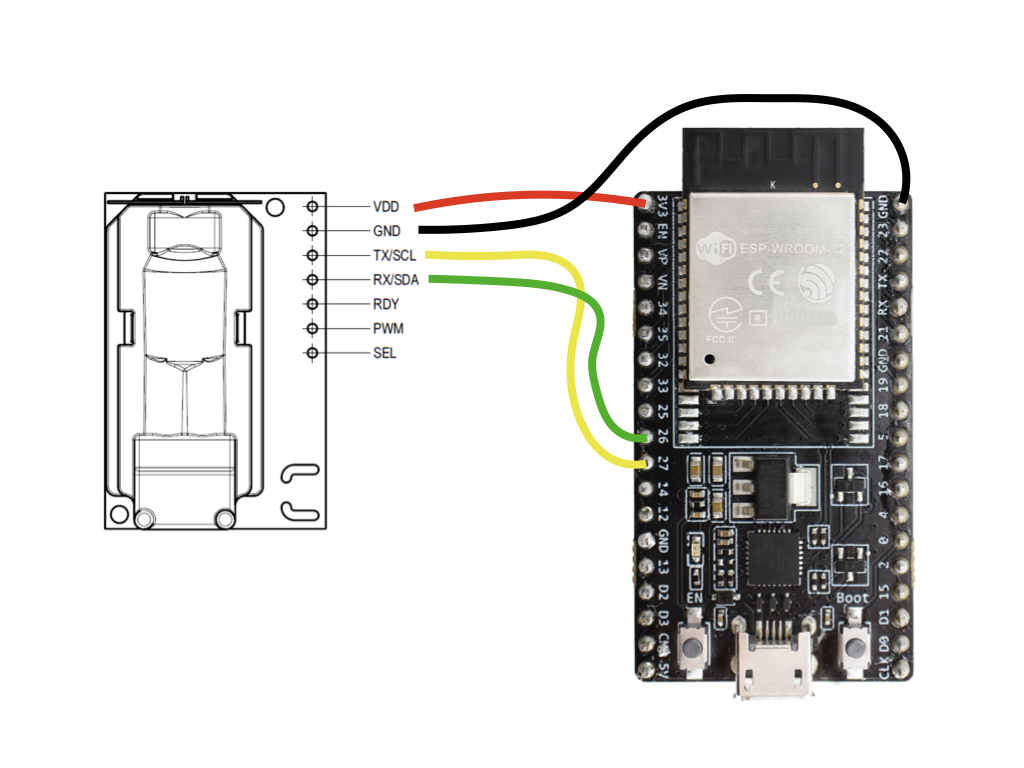
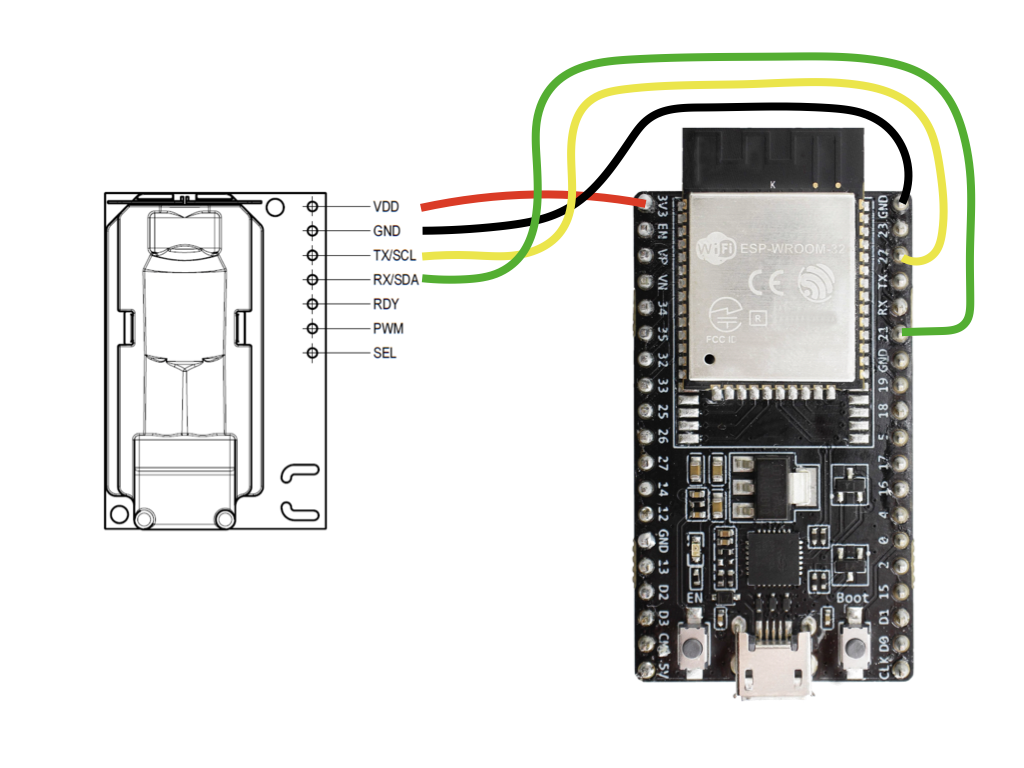
Fix tutorial wiring and description

Changed region(s): [[0.5312, 0.0625, 0.9688, 0.4375], [0.4062, 0.125, 0.625, 0.625]]

diff --git a/documents/SCD4x_BLE_Gadget_Tutorial.md b/documents/SCD4x_BLE_Gadget_Tutorial.md
@@ -2,7 +2,9 @@
 
 ## Summary
 
-This tutorial enables you to setup a CO2-Monitor sending Temperature, Humidity and Carbon Dioxide (CO2) measurements via Bluetooth to nearby mobile phones. All steps necessary and links to the compatible app for the interaction with the created Gadget are provided here.
+This tutorial enables you to setup a CO2-Monitor sending Temperature, Humidity and Carbon Dioxide (CO2) measurements via
+Bluetooth to nearby mobile phones. All steps necessary and links to the compatible app for the interaction with the
+created Gadget are provided here.
 
 The tutorial is structured in 3 parts
 
@@ -14,16 +16,19 @@ The tutorial is structured in 3 parts
 
 To complete this tutorial, you'll need
 
-* [ESP32 DevKitC](https://www.espressif.com/en/products/devkits/esp32-devkitc) (available [here](https://www.digikey.com/en/products/detail/espressif-systems/ESP32-DEVKITC-32D/9356990))
+* [ESP32 DevKitC-32D](https://www.espressif.com/en/products/devkits/esp32-devkitc) (
+  available [here](https://www.digikey.com/en/products/detail/espressif-systems/ESP32-DEVKITC-32D/9356990))
 * [Sensirions SEK-SCD41](https://www.sensirion.com/my-scd-ek)
 * USB cable to connect the ESP32 DevKitC module to your computer
 
-Connect the SEK-SCD41 module to the ESP32 DevKitC as depicted below:
+Connect the SEK-SCD41 module to the ESP32 DevKitC as depicted below. Please note, that your developer kit may have a
+different pin layout. If you're using different pins or have a different layout, you might have to adjust the code
+accordingly.
 
 * **VDD** of the SEK-SCD41 to the **3.3V** of the ESP32
 * **GND** of the SEK-SCD41 to the **GND** of the ESP32
-* **SCL** of the SEK-SCD41 to the **GPIO 22** of the ESP32
-* **SDA** of the SEK-SCD41 to the **GPIO 21** of the ESP32
+* **SCL** of the SEK-SCD41 to the **IO22** of the ESP32
+* **SDA** of the SEK-SCD41 to the **IO21** of the ESP32
 
 <img src="images/SCD4x_hardware_setup.png" width="500">
 
@@ -35,11 +40,12 @@ The following instructions originate from [here](https://github.com/espressif/ar
 
 1. Install the current version of the [Arduino IDE](http://www.arduino.cc/en/main/software).
 2. Start the Arduino IDE and open the Preferences window.
-3. Enter the following link into the *Additional Board Manager URLs* field. You can add multiple URLs, separating them with commas.
-	* `https://raw.githubusercontent.com/espressif/arduino-esp32/gh-pages/package_esp32_index.json`
+3. Enter the following link into the *Additional Board Manager URLs* field. You can add multiple URLs, separating them
+   with commas.
+    * `https://raw.githubusercontent.com/espressif/arduino-esp32/gh-pages/package_esp32_index.json`
 4. Open the Boards Manager from `Tools > Board -> Board Manager` and install the *esp32* platform
 5. Select your ESP32 board from the `Tools > Board` menu after the successfull installation.
-	* E.g. `ESP32 Dev Module`
+    * E.g. `ESP32 Dev Module`
 
 ### Setup the requried libraries
 
@@ -47,7 +53,8 @@ We'll be installing one library. Click the link below and download the newest .z
 
 * The [Sensirion GadgetBle Arduino Library](https://github.com/Sensirion/Sensirion_GadgetBle_Arduino_Library/releases)
 
-For the downloaded .zip file: In the Arduino IDE, select `Sketch -> include Library -> Add .zip Library` and select the downloaded .zip file.
+For the downloaded .zip file: In the Arduino IDE, select `Sketch -> include Library -> Add .zip Library` and select the
+downloaded .zip file.
 
 <img src="images/Arduino-import-zip-lib.png" width="500">
 
@@ -66,20 +73,25 @@ Restart the Arduino IDE.
 
 ### Value plotting on your Computer
 
-To verify that everything is working fine, open the Serial Plotter, while your ESP32 ist still connected to your computer to see the sensor values measured by the SCD41 module:
+To verify that everything is working fine, open the Serial Plotter, while your ESP32 ist still connected to your
+computer to see the sensor values measured by the SCD41 module:
 
 1. Go to `Tools -> Serial Plotter`
 2. Make sure on the bottom left corner `115200 baud` is selected, as depicted in the image below
 
-You should see the measured values plotted in the opened window. Alternatively you can choose `Tools -> Serial Monitor` to see the values in text form.
+You should see the measured values plotted in the opened window. Alternatively you can choose `Tools -> Serial Monitor`
+to see the values in text form.
 
 ### Monitor your Temperature, Humidity and CO2 levels via Mobile App
 
-Download the **Sensirion MyAmbience** app to monitor your sensor signals, download history values and export and share the data with your friends.
+Download the **Sensirion MyAmbience** app to monitor your sensor signals, download history values and export and share
+the data with your friends.
 
 * [Download for Android](https://play.google.com/store/apps/details?id=com.sensirion.myam)
 * [Download for iOS](https://apps.apple.com/ch/app/id1529131572)
 
-Note that on Android devices the Location services need to be enabled and the corresponding permissions granted to the application. This is required to allow the app to continuously scan for nearby Bluetooth devices. This is a requirement of the Android OS for Bluetooth scanning. The app itself does not use your location.
+Note that on Android devices the Location services need to be enabled and the corresponding permissions granted to the
+application. This is required to allow the app to continuously scan for nearby Bluetooth devices. This is a requirement
+of the Android OS for Bluetooth scanning. The app itself does not use your location.
 
 <img src="images/SCD30_AppScreenshot.PNG" width="300">

diff --git a/documents/SCD30_Monitor_Tutorial.md b/documents/SCD30_Monitor_Tutorial.md
@@ -16,17 +16,21 @@ If you have a [LILYGO® TTGO T-Display ESP32](http://www.lilygo.cn/prod_view.asp
 
 To complete this tutorial, you'll need
 
-* [ESP32 DevKitC](https://www.espressif.com/en/products/devkits/esp32-devkitc) (available [here](https://www.digikey.com/en/products/detail/espressif-systems/ESP32-DEVKITC-32D/9356990))
+* [ESP32 DevKitC-32D](https://www.espressif.com/en/products/devkits/esp32-devkitc) (
+  available [here](https://www.digikey.com/en/products/detail/espressif-systems/ESP32-DEVKITC-32D/9356990))
 * [Sensirions SCD30 Sensor](https://www.sensirion.com/en/environmental-sensors/carbon-dioxide-sensors/carbon-dioxide-sensors-co2/) (available [here](https://www.digikey.com/en/products/detail/sensirion-ag/SCD30/8445334) or with [Grove Plug](https://www.digikey.com/en/products/detail/seeed-technology-co-ltd/101020634/10060357?s=N4IgTCBcDaIMoGEAiBmADCAugXyA) if you don't want to solder anything)
 * Cables for soldering the connection or a Grove-to-Jumper cable (available [here](https://www.digikey.com/en/products/detail/seeed-technology-co-ltd/110990028/5482559?s=N4IgTCBcDaIOYCcD2A3ApgAgC5IwKwFcBbABzQQwDM0iBDAGzRAF0BfIA))
 * USB cable to connect the ESP32 DevKitC module to your computer
 
-Connect the SCD30 sensor to the ESP32 DevKitC as depicted below:
+Connect the SCD30 sensor to the ESP32 DevKitC as depicted below. Please note, that your developer kit may have a
+different pin layout. If you're using different pins or have a different layout, you might have to adjust the code
+accordingly.
 
 * **VDD** of the SCD30 to the **3.3V** of the ESP32
 * **GND** of the SCD30 to the **GND** of the ESP32
-* **SDA** of the SCD30 to the **GPIO 26** of the ESP32
-* **SCL** of the SCD30 to the **GPIO 27** of the ESP32
+* **SCL** of the SCD30 to the **IO22** of the ESP32
+* **SDA** of the SCD30 to the **IO21** of the ESP32
+
 
 <img src="images/SCD30_hardware_setup.png" width="500">
 
@@ -94,6 +98,8 @@ Note that on Android devices the Location services need to be enabled and the co
 The LILYGO® TTGO T-Display ESP32 is an ESP32 DevKit with a small 1.14 inch display attached. This allows us to visualize the current CO2 concentration and level color in green, yellow or red, depending if the CO2 level is good, bad or very bad.
 
 <img src="images/TTGO-Gadget.png" width="600">
+
+Caution: This picture shows an alternative wiring. Use the instructions described in section *Hardware Setup*
 
 Follow all the instructions above and additionally do the following:
 

diff --git a/documents/SCD30_BLE_Gadget_with_RHT_Tutorial.md b/documents/SCD30_BLE_Gadget_with_RHT_Tutorial.md
@@ -14,17 +14,20 @@ The tutorial is structured in 3 parts
 
 To complete this tutorial, you'll need
 
-* [ESP32 DevKitC](https://www.espressif.com/en/products/devkits/esp32-devkitc) (available [here](https://www.digikey.com/en/products/detail/espressif-systems/ESP32-DEVKITC-32D/9356990))
+* [ESP32 DevKitC-32D](https://www.espressif.com/en/products/devkits/esp32-devkitc) (
+  available [here](https://www.digikey.com/en/products/detail/espressif-systems/ESP32-DEVKITC-32D/9356990))
 * [Sensirions SCD30 Sensor](https://www.sensirion.com/en/environmental-sensors/carbon-dioxide-sensors/carbon-dioxide-sensors-co2/) (available [here](https://www.digikey.com/en/products/detail/sensirion-ag/SCD30/8445334) or with [Grove Plug](https://www.digikey.com/en/products/detail/seeed-technology-co-ltd/101020634/10060357?s=N4IgTCBcDaIMoGEAiBmADCAugXyA) if you don't want to solder anything)
 * Cables for soldering the connection or a Grove-to-Jumper cable (available [here](https://www.digikey.com/en/products/detail/seeed-technology-co-ltd/110990028/5482559?s=N4IgTCBcDaIOYCcD2A3ApgAgC5IwKwFcBbABzQQwDM0iBDAGzRAF0BfIA))
 * USB cable to connect the ESP32 DevKitC module to your computer
 
-Connect the SCD30 sensor to the ESP32 DevKitC as depicted below:
+Connect the SCD30 sensor to the ESP32 DevKitC as depicted below. Please note, that your developer kit may have a
+different pin layout. If you're using different pins or have a different layout, you might have to adjust the code
+accordingly.
 
 * **VDD** of the SCD30 to the **3.3V** of the ESP32
 * **GND** of the SCD30 to the **GND** of the ESP32
-* **SDA** of the SCD30 to the **GPIO 26** of the ESP32
-* **SCL** of the SCD30 to the **GPIO 27** of the ESP32
+* **SCL** of the SCD30 to the **IO22** of the ESP32
+* **SDA** of the SCD30 to the **IO21** of the ESP32
 
 <img src="images/SCD30_hardware_setup.png" width="500">
 

diff --git a/documents/SFA30_BLE_Gadget_Tutorial.md b/documents/SFA30_BLE_Gadget_Tutorial.md
@@ -14,16 +14,19 @@ The tutorial is structured in 3 parts
 
 To complete this tutorial, you'll need
 
-* [ESP32 DevKitC](https://www.espressif.com/en/products/devkits/esp32-devkitc) (available [here](https://www.digikey.com/en/products/detail/espressif-systems/ESP32-DEVKITC-32D/9356990))
+* [ESP32 DevKitC-32D](https://www.espressif.com/en/products/devkits/esp32-devkitc) (
+  available [here](https://www.digikey.com/en/products/detail/espressif-systems/ESP32-DEVKITC-32D/9356990))
 * [Sensirions SEK-SFA30](https://www.sensirion.com/en/environmental-sensors/evaluation-kit-sek-sfa30/) (available [here](https://www.digikey.com/en/products/detail/sensirion-ag/SEK-SFA30/13577460?s=N4IgTCBcDaIMoDECCBmADCAugXyA)
 * USB cable to connect the ESP32 DevKitC module to your computer
 
-Connect the SEK-SFA30 module to the ESP32 DevKitC as depicted below:
+Connect the SEK-SFA30 module to the ESP32 DevKitC as depicted below. Please note, that your developer kit may have a
+different pin layout. If you're using different pins or have a different layout, you might have to adjust the code
+accordingly.
 
 * **VDD** of the SEK-SFA30 to the **3.3V** of the ESP32
 * **GND** of the SEK-SFA30 to the **GND** of the ESP32
-* **SCL** of the SEK-SFA30 to the **GPIO 22** of the ESP32
-* **SDA** of the SEK-SFA30 to the **GPIO 21** of the ESP32
+* **SCL** of the SEK-SFA30 to the **IO22** of the ESP32
+* **SDA** of the SEK-SFA30 to the **IO21** of the ESP32
 * **SEL** of the SEK-SFA30 to the **GND** of the ESP32  (choosing the I2C interface)
 
 <img src="images/SFA30_hardware_setup.png" width="500">

diff --git a/documents/SVM40_BLE_Gadget_Tutorial.md b/documents/SVM40_BLE_Gadget_Tutorial.md
@@ -14,16 +14,19 @@ The tutorial is structured in 3 parts
 
 To complete this tutorial, you'll need
 
-* [ESP32 DevKitC](https://www.espressif.com/en/products/devkits/esp32-devkitc) (available [here](https://www.digikey.com/en/products/detail/espressif-systems/ESP32-DEVKITC-32D/9356990))
+* [ESP32 DevKitC-32D](https://www.espressif.com/en/products/devkits/esp32-devkitc) (
+  available [here](https://www.digikey.com/en/products/detail/espressif-systems/ESP32-DEVKITC-32D/9356990))
 * [Sensirions SEK-SVM40](https://www.sensirion.com/en/environmental-sensors/evaluation-kit-sek-svm40/) (available [here](https://www.digikey.com/en/products/detail/sensirion-ag/SEK-SVM40/12820417?s=N4IgTCBcDaIMoDUCyAWADCAugXyA)
 * USB cable to connect the ESP32 DevKitC module to your computer
 
-Connect the SEK-SVM40 module to the ESP32 DevKitC as depicted below:
+Connect the SEK-SVM40 module to the ESP32 DevKitC as depicted below. Please note, that your developer kit may have a
+different pin layout. If you're using different pins or have a different layout, you might have to adjust the code
+accordingly.
 
 * **VDD** of the SEK-SVM40 to the **3.3V** of the ESP32
 * **GND** of the SEK-SVM40 to the **GND** of the ESP32
-* **SCL** of the SEK-SVM40 to the **GPIO 22** of the ESP32
-* **SDA** of the SEK-SVM40 to the **GPIO 21** of the ESP32
+* **SCL** of the SEK-SVM40 to the **IO22** of the ESP32
+* **SDA** of the SEK-SVM40 to the **IO21** of the ESP32
 * **SEL** of the SEK-SVM40 to the **GND** of the ESP32  (choosing the I2C interface)
 
 <img src="images/SVM40_hardware_setup.png" width="500">

diff --git a/documents/SEN44_BLE_Gadget_Tutorial.md b/documents/SEN44_BLE_Gadget_Tutorial.md
@@ -16,12 +16,14 @@ The tutorial is structured in 3 parts
 
 To complete this tutorial, you'll need
 
-* [ESP32 DevKitC](https://www.espressif.com/en/products/devkits/esp32-devkitc) (
+* [ESP32 DevKitC-32D](https://www.espressif.com/en/products/devkits/esp32-devkitc) (
   available [here](https://www.digikey.com/en/products/detail/espressif-systems/ESP32-DEVKITC-32D/9356990))
 * Sensirion SEN44 Sensor Module
 * USB cable to connect the ESP32 DevKitC module to your computer
 
-Connect the SEN44 module to the ESP32 DevKitC as depicted below:
+Connect the SEN44 module to the ESP32 DevKitC as depicted below. Please note, that your developer kit may have a
+different pin layout. If you're using different pins or have a different layout, you might have to adjust the code
+accordingly.
 
 <img src="images/SEN44_hardware_setup.png" width="500">
 
